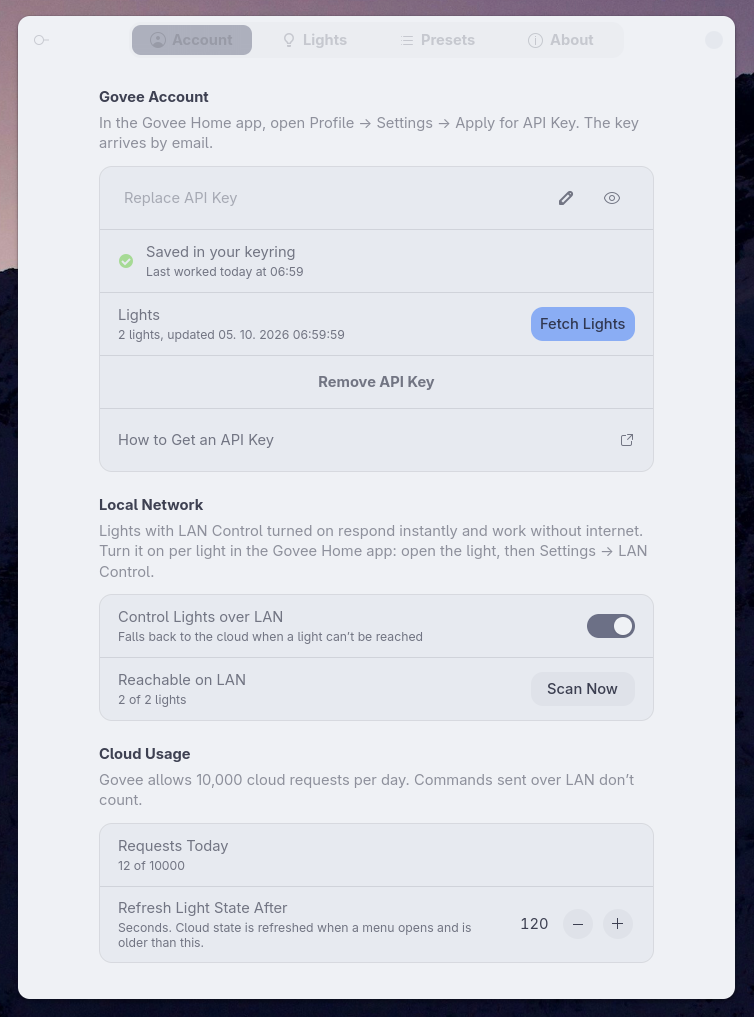
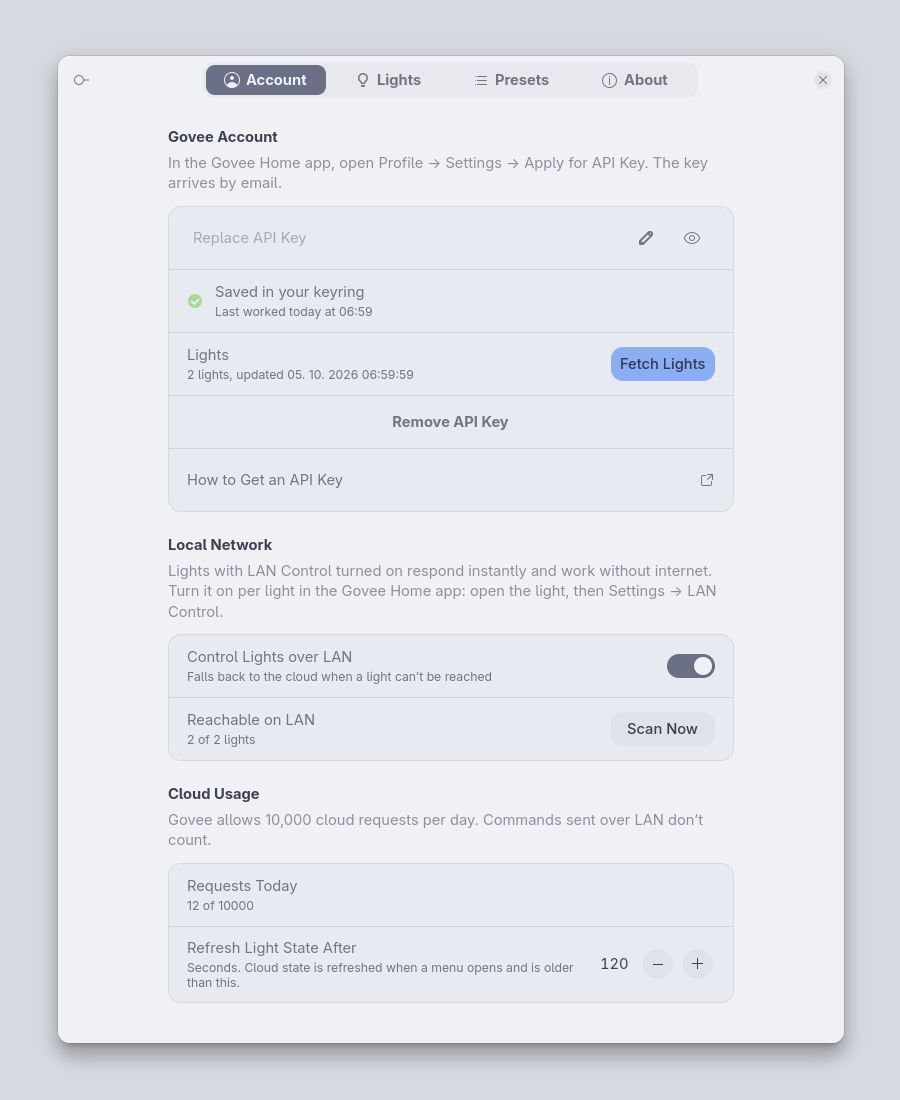
Retake screenshots at one size and lay them out evenly
All shots come from full-screen captures cropped the same way: settings
pages at 900x1100 with the window shadow, shell menus with an even margin.
The README shows Quick Settings and the top-bar menu side by side and the
three settings pages in one row; the guides use fixed widths.

diff --git a/README.md b/README.md
@@ -9,9 +9,9 @@
 > **Status: early development.** There is no release yet. Follow the [changelog](CHANGELOG.md) for progress.
 
 <p align="center">
-  <img src="docs/screenshots/quick-settings.png" alt="Two lights as tiles in GNOME Quick Settings" width="380">
-  &nbsp;
-  <img src="docs/screenshots/top-bar-menu.png" alt="The top-bar menu with a preset and a light's controls" width="300">
+  <img src="docs/screenshots/quick-settings.png" alt="Two lights as tiles in GNOME Quick Settings" width="392">
+  &nbsp;&nbsp;
+  <img src="docs/screenshots/top-bar-menu.png" alt="The top-bar menu with the Movie Night preset applied and two lights" width="344">
 </p>
 
 ## Introduction
@@ -45,11 +45,16 @@ Lights that have *LAN Control* enabled are driven directly over your local netwo
 
 ## Screenshots
 
-| Light controls from a Quick Settings tile | Account settings |
-|---|---|
-| ![A light's brightness, temperature and colour controls opened from its tile](docs/screenshots/quick-settings-light-menu.png) | ![The Account page: API key, LAN reachability and cloud usage](docs/screenshots/prefs-account.png) |
-| **Lights settings** | **Presets settings** |
-| ![The Lights page listing two lights and how they are reached](docs/screenshots/prefs-lights.png) | ![The Presets page with a two-light preset](docs/screenshots/prefs-presets.png) |
+<p align="center">
+  <img src="docs/screenshots/quick-settings-light-menu.png" alt="A light's brightness, temperature, colour and scene controls opened from its Quick Settings tile" width="330">
+</p>
+
+<p align="center">
+  <img src="docs/screenshots/prefs-account.png" alt="Settings, Account page: API key, LAN reachability and cloud usage" width="270">
+  <img src="docs/screenshots/prefs-lights.png" alt="Settings, Lights page: two lights and how they are reached" width="270">
+  <img src="docs/screenshots/prefs-presets.png" alt="Settings, Presets page: the Movie Night preset with two lights" width="270">
+</p>
+<p align="center"><em>Settings: Account, Lights and Presets</em></p>
 
 ## Requirements
 

diff --git a/docs/getting-started.md b/docs/getting-started.md
@@ -27,7 +27,7 @@ The key is saved in GNOME Keyring, not in GSettings. See [Privacy](privacy.md).
 
 Only devices that Govee reports as lights are listed. Plugs, sensors, humidifiers and so on are skipped.
 
-![The Account page with a saved key, two lights reachable on LAN and the cloud usage counter](screenshots/prefs-account.png)
+<p align="center"><img src="screenshots/prefs-account.png" alt="The Account page with a saved key, two lights reachable on LAN and the cloud usage counter" width="450"></p>
 
 ## 3. Enable LAN Control (recommended)
 
@@ -51,7 +51,7 @@ Open the **Lights** page. Each light has its own expandable row:
 
 The top-bar icon only appears when at least one light or preset is placed there.
 
-![The Lights page listing two lights with their model and connection](screenshots/prefs-lights.png)
+<p align="center"><img src="screenshots/prefs-lights.png" alt="The Lights page listing two lights with their model and connection" width="450"></p>
 
 ## 5. Using the controls
 
@@ -67,7 +67,7 @@ Over LAN the light follows the slider as you drag it. Over the cloud the value i
 
 The footer of each light's menu shows whether it is currently controlled over **LAN** or **Cloud**. A tile's subtitle shows the brightness, the active scene or **Offline**.
 
-![A light's controls opened from its Quick Settings tile](screenshots/quick-settings-light-menu.png)
+<p align="center"><img src="screenshots/quick-settings-light-menu.png" alt="A light's controls opened from its Quick Settings tile" width="330"></p>
 
 ## 6. Refreshing
 

diff --git a/docs/presets.md b/docs/presets.md
@@ -34,7 +34,7 @@ Anything you leave unset is not changed. Only modes the light supports are offer
 
 Changes are saved straight away and show up in the top-bar menu.
 
-![The Presets page with a preset that sets two lights](screenshots/prefs-presets.png)
+<p align="center"><img src="screenshots/prefs-presets.png" alt="The Presets page with the Movie Night preset, which sets two lights" width="450"></p>
 
 ## Saving the current state
 
